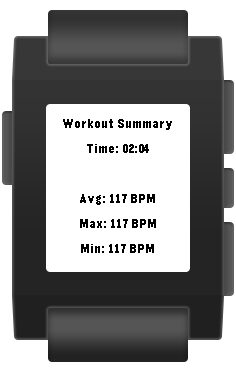
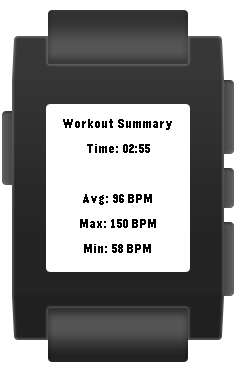
One more screenshot update

diff --git a/src/hrm-activity-tutorial.c b/src/hrm-activity-tutorial.c
@@ -25,6 +25,39 @@ static ActivityState s_app_state = STATE_NOT_STARTED;
 
 static time_t s_start_time, s_end_time;
 
+static uint16_t s_curr_hr = 0;
+static uint16_t s_min_hr = 65535; // max uint16_t
+static uint16_t s_max_hr = 0;
+
+static uint32_t s_hr_samples = 0;
+static uint32_t s_hr_total = 0;
+
+int16_t get_min_hr() {
+  return s_min_hr;
+}
+
+int16_t get_max_hr() {
+  return s_max_hr;
+}
+
+int16_t get_avg_hr() {
+  if (s_hr_samples == 0) return 0;
+  return s_hr_total / s_hr_samples;
+}
+
+static void prv_on_health_data(HealthEventType type, void *context) {
+  // If the update was from the Heart Rate Monitor, update it
+  if (type == HealthEventHeartRateUpdate) {
+    s_curr_hr = (int16_t) health_service_peek_current_value(HealthMetricHeartRateBPM);
+
+    // Update our metrics
+    if (s_curr_hr < s_min_hr) s_min_hr = s_curr_hr;
+    if (s_curr_hr > s_max_hr) s_max_hr = s_curr_hr;
+    s_hr_samples++;
+    s_hr_total += s_curr_hr;
+  }
+}
+
 static void prv_on_activity_tick(struct tm *tick_time, TimeUnits units_changed) {
   // Update Time
   time_t diff = time(NULL) - s_start_time;
@@ -39,10 +72,8 @@ static void prv_on_activity_tick(struct tm *tick_time, TimeUnits units_changed) 
   text_layer_set_text(s_time_text_layer, s_time_buffer);
 
   // Update BPM
-  HealthValue hrmValue = health_service_peek_current_value(HealthMetricHeartRateBPM);
-
   static char s_hrm_buffer[8];
-  snprintf(s_hrm_buffer, sizeof(s_hrm_buffer), "%lu BPM", (uint32_t) hrmValue);
+  snprintf(s_hrm_buffer, sizeof(s_hrm_buffer), "%lu BPM", (uint32_t) s_curr_hr);
   text_layer_set_text(s_bpm_text_layer, s_hrm_buffer);
 }
 
@@ -58,6 +89,9 @@ static void prv_start_activity(void) {
 
   // Subscribe to tick handler to update display
   tick_timer_service_subscribe(SECOND_UNIT, prv_on_activity_tick);
+
+  // Subscribe to health handler
+  health_service_events_subscribe(prv_on_health_data, NULL);
 
   // Update UI
   text_layer_set_text(s_status_text_layer, END_ACTIVITY_STRING);
@@ -78,17 +112,8 @@ static void prv_end_activity(void) {
   // Unsubscribe from tick handler
   tick_timer_service_unsubscribe();
 
-
-  // Calcultate Metrics
-  uint32_t min_bpm = health_service_aggregate_averaged(HealthMetricHeartRateBPM,
-                                s_start_time, s_end_time,
-                                HealthAggregationMin, HealthServiceTimeScopeOnce);
-  uint32_t max_bpm = health_service_aggregate_averaged(HealthMetricHeartRateBPM,
-                                s_start_time, s_end_time,
-                                HealthAggregationMax, HealthServiceTimeScopeOnce);
-  uint32_t avg_bpm = health_service_aggregate_averaged(HealthMetricHeartRateBPM,
-                                s_start_time, s_end_time,
-                                HealthAggregationAvg, HealthServiceTimeScopeOnce);
+  // Unsubscribe from health handler
+  health_service_events_unsubscribe();
 
   // Update UI
   layer_set_hidden(text_layer_get_layer(s_status_text_layer), true);
@@ -107,15 +132,15 @@ static void prv_end_activity(void) {
   text_layer_set_text(s_total_time_text_layer, s_time_buffer);
 
   static char s_avg_bpm_buffer[16];
-  snprintf(s_avg_bpm_buffer, sizeof(s_avg_bpm_buffer), "Avg: %lu BPM", avg_bpm);
+  snprintf(s_avg_bpm_buffer, sizeof(s_avg_bpm_buffer), "Avg: %u BPM", get_avg_hr());
   text_layer_set_text(s_avg_bpm_text_layer, s_avg_bpm_buffer);
 
   static char s_max_bpm_buffer[16];
-  snprintf(s_max_bpm_buffer, sizeof(s_max_bpm_buffer), "Max: %lu BPM", max_bpm);
+  snprintf(s_max_bpm_buffer, sizeof(s_max_bpm_buffer), "Max: %u BPM", get_max_hr());
   text_layer_set_text(s_max_bpm_text_layer, s_max_bpm_buffer);
 
   static char s_min_bpm_buffer[16];
-  snprintf(s_min_bpm_buffer, sizeof(s_min_bpm_buffer), "Min: %lu BPM", min_bpm);
+  snprintf(s_min_bpm_buffer, sizeof(s_min_bpm_buffer), "Min: %u BPM", get_min_hr());
   text_layer_set_text(s_min_bpm_text_layer, s_min_bpm_buffer);
 
   layer_set_hidden(text_layer_get_layer(s_title_text_layer), false);
